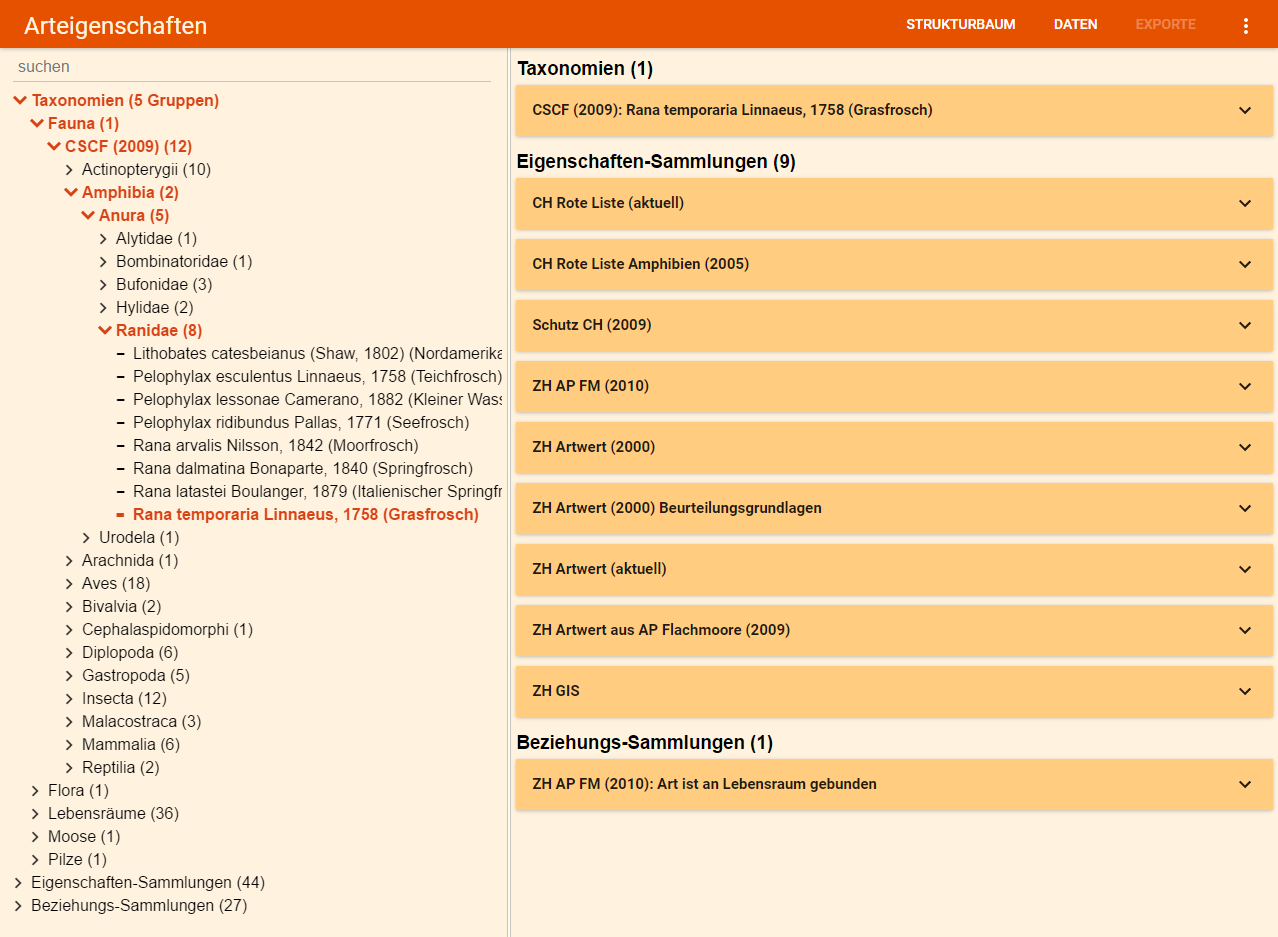
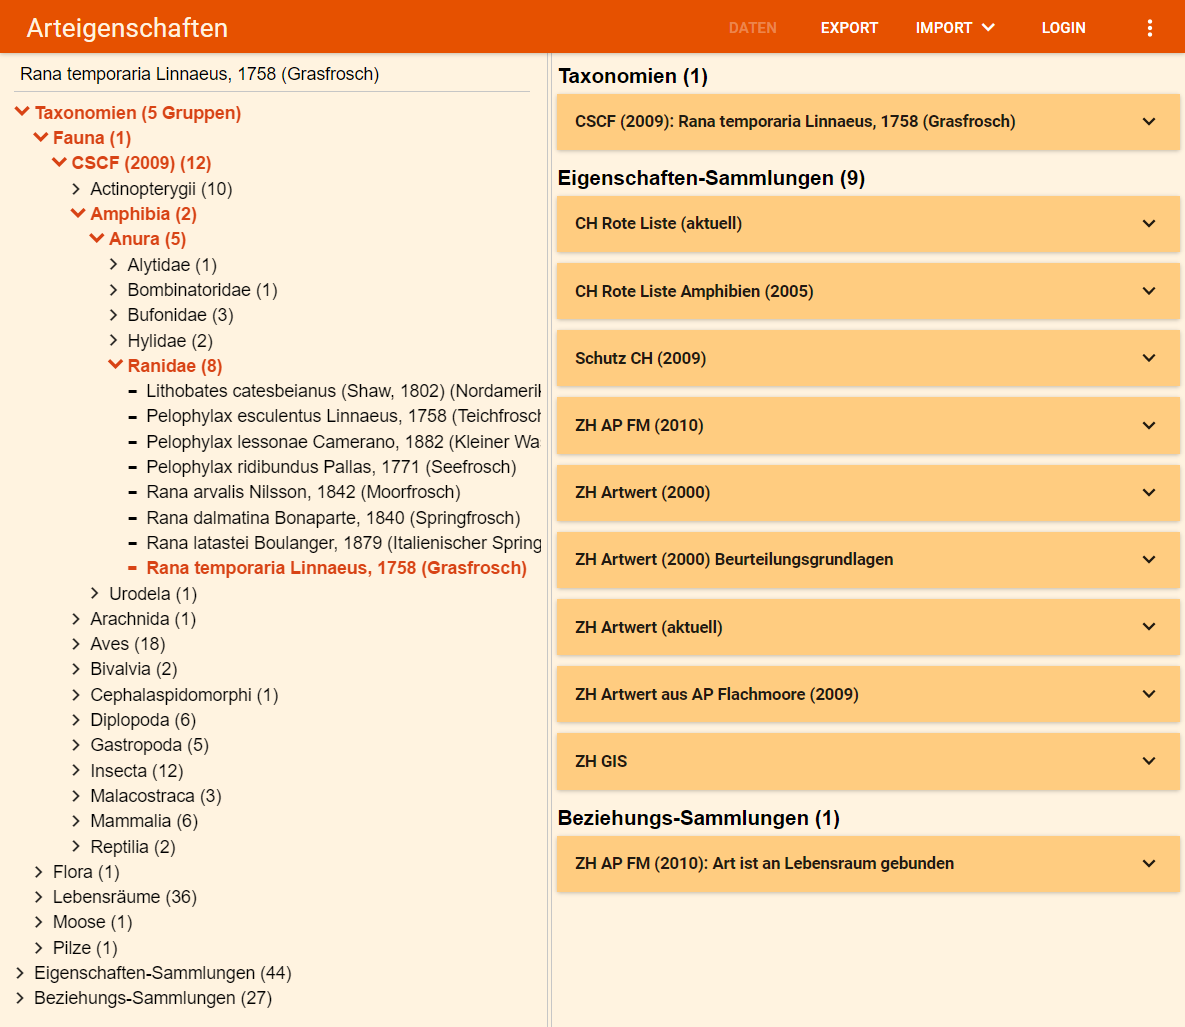
update readme

Changed region(s): [[0.0, 0.0, 0.9992, 0.9904], [0.6869, 0.0, 0.9367, 0.0309], [0.6245, 0.0, 0.6557, 0.0309]]

diff --git a/readme.md b/readme.md
@@ -71,7 +71,7 @@ Die neue Anwendung ist im Aufbau. Zieldatum für die Implementierung: Beginn 201
   - [x] Layout und Navigation
   - [x] Struktur- und Navigationsbaum
   - [x] Taxonomien, Eigenschaften- und Beziehungs-Sammlungen von Objekten: ![Datenstruktur](/etc/grasfrosch.png?raw=true "Grasfrosch")
-  - [x] Suche nach Taxonomie-Objekten, Eigenschaften- und Beziehungs-Sammlungen
+  - [x] Suche nach Taxonomie-Objekten, Eigenschaften- und Beziehungs-Sammlungen: ![Datenstruktur](/etc/grasfrosch_suchen.png?raw=true "Grasfrosch suchen")
   - [ ] Daten-Export
   - [ ] Login
   - [ ] Organisationen und Benutzer
